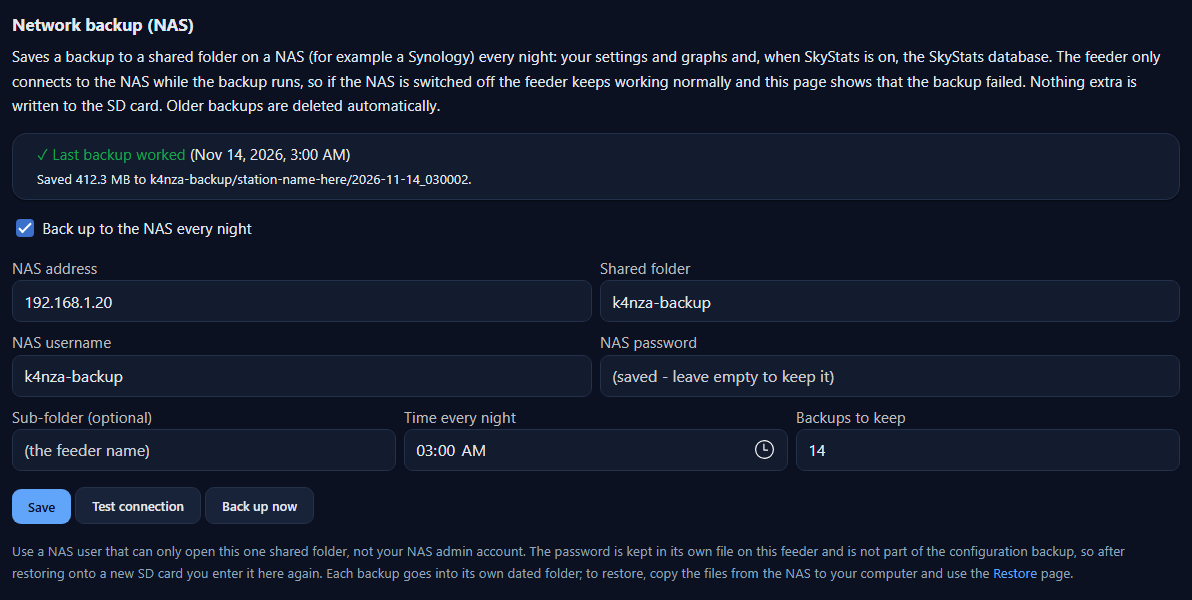
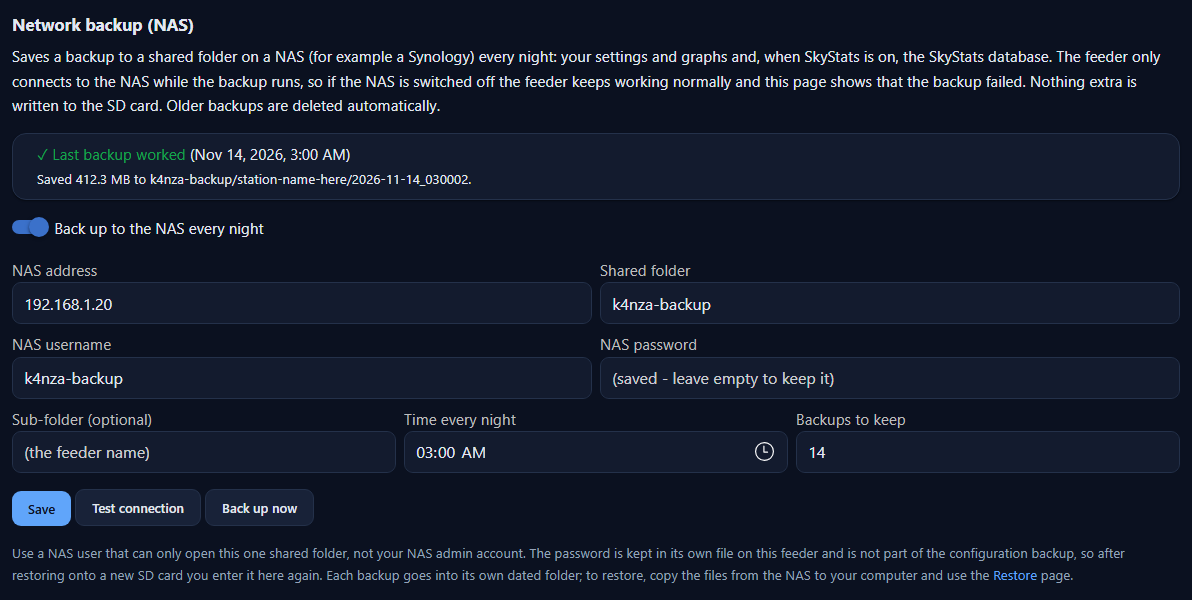
NAS backup: save the nightly switch (it was always saved as off)
base.html rewrites every checkbox on submit to send 1/0, but the NAS form
handler only accepted the browser default "on", so enabling the nightly
backup was saved as off. Accept "1" (and "on"). The setting is now a
form-switch toggle; README screenshot updated.

diff --git a/src/modules/adsb-feeder/filesystem/root/opt/adsb/adsb-setup/templates/backup.html b/src/modules/adsb-feeder/filesystem/root/opt/adsb/adsb-setup/templates/backup.html
@@ -79,9 +79,11 @@ written to the SD card. Older backups are deleted automatically.
 </div>
 <form method="POST" action="/k4nza/nas-backup" autocomplete="off">
   <div class="row g-2 align-items-center">
-    <div class="col-12 form-check ms-2 mb-2">
-      <input class="form-check-input" type="checkbox" name="nas_enabled" id="nas_enabled" {% if nas.enabled %}checked{% endif %}>
-      <label class="form-check-label" for="nas_enabled">Back up to the NAS every night</label>
+    <div class="col-12 mb-2">
+      <div class="form-check form-switch">
+        <input class="form-check-input" type="checkbox" role="switch" name="nas_enabled" id="nas_enabled" {% if nas.enabled %}checked{% endif %}>
+        <label class="form-check-label" for="nas_enabled">Back up to the NAS every night</label>
+      </div>
     </div>
     <div class="col-12 col-md-6">
       <label class="form-label mb-0" for="nas_host">NAS address</label>

diff --git a/src/modules/adsb-feeder/filesystem/root/opt/adsb/adsb-setup/app.py b/src/modules/adsb-feeder/filesystem/root/opt/adsb/adsb-setup/app.py
@@ -5457,7 +5457,9 @@ class AdsbIm:
                 settings["keep"] = int(form.get("nas_keep", settings["keep"]))
             except ValueError:
                 settings["keep"] = 0
-            settings["enabled"] = form.get("nas_enabled") == "on"
+            # base.html rewrites every checkbox on submit to send "1" (on) or "0" (off);
+            # "on" is what a browser sends without that script
+            settings["enabled"] = form.get("nas_enabled") in ("1", "on")
 
         errors = k4nza_nas_backup.validate(settings)
         if errors and (settings["enabled"] or action != "save"):

diff --git a/CHANGELOG.md b/CHANGELOG.md
@@ -3,6 +3,13 @@
 What changed in each K4NZA ADS-B Feeder release. The newest release is at the top.
 The feeder's **Updates** page shows the newest entry as "What's new".
 
+## v3.0.15-23 (not released yet)
+
+**Fixed**
+- Backup → Network backup: turning on "Back up to the NAS every night" wasn't saved, and the page
+  always said "Nightly NAS backup is off", so the nightly backup never ran (Back up now did work).
+  The setting is now a switch and is saved. After updating, turn it on and click Save once more.
+
 ## v3.0.15-22 (2026-11-14)
 
 **New**
